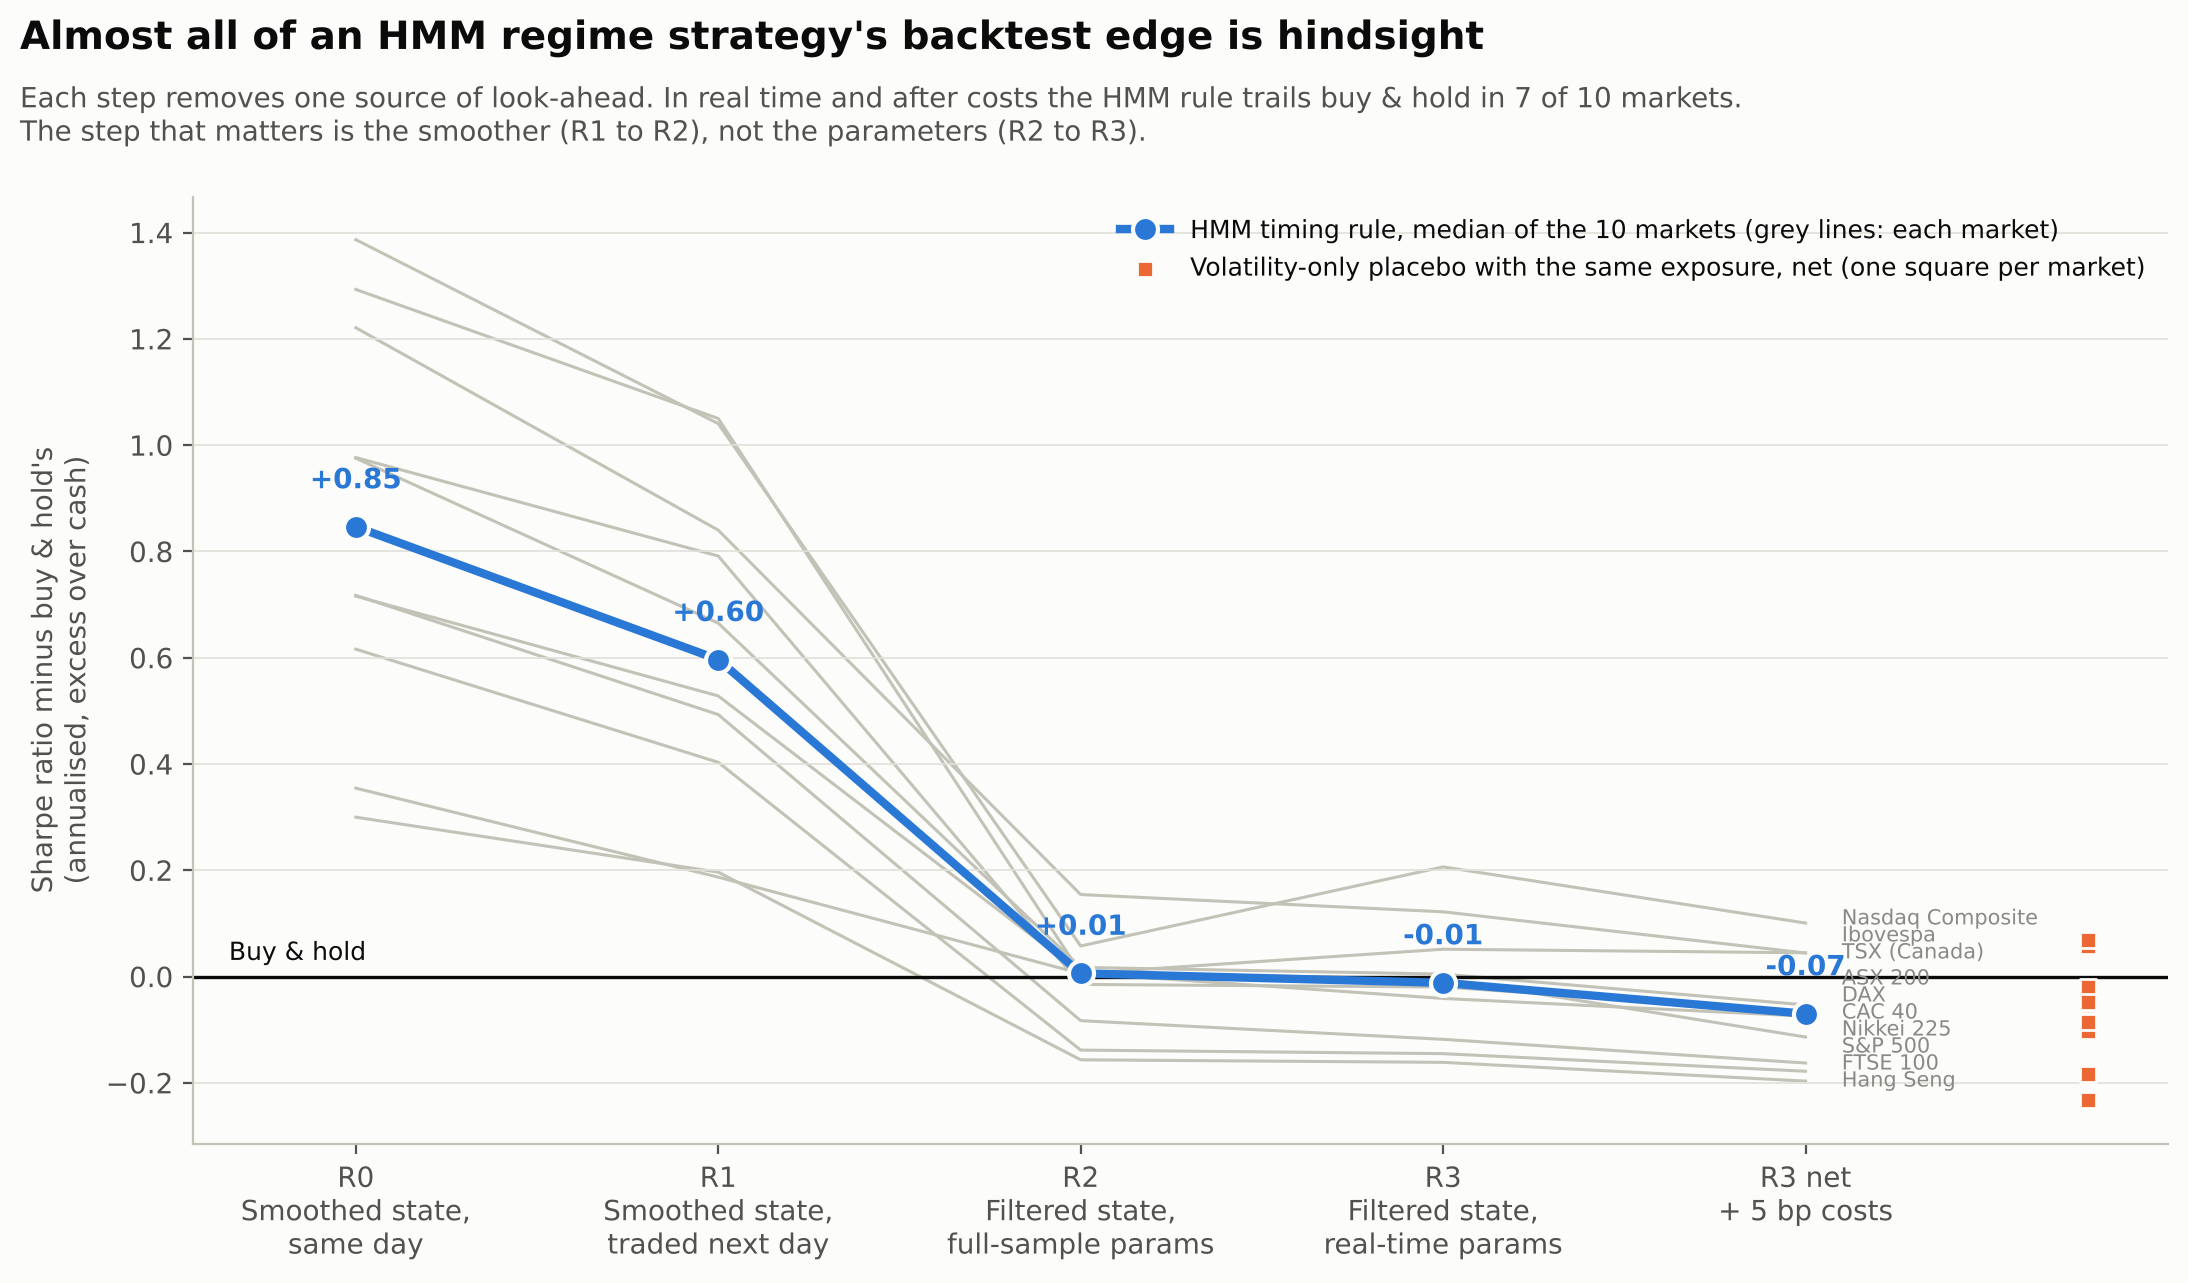
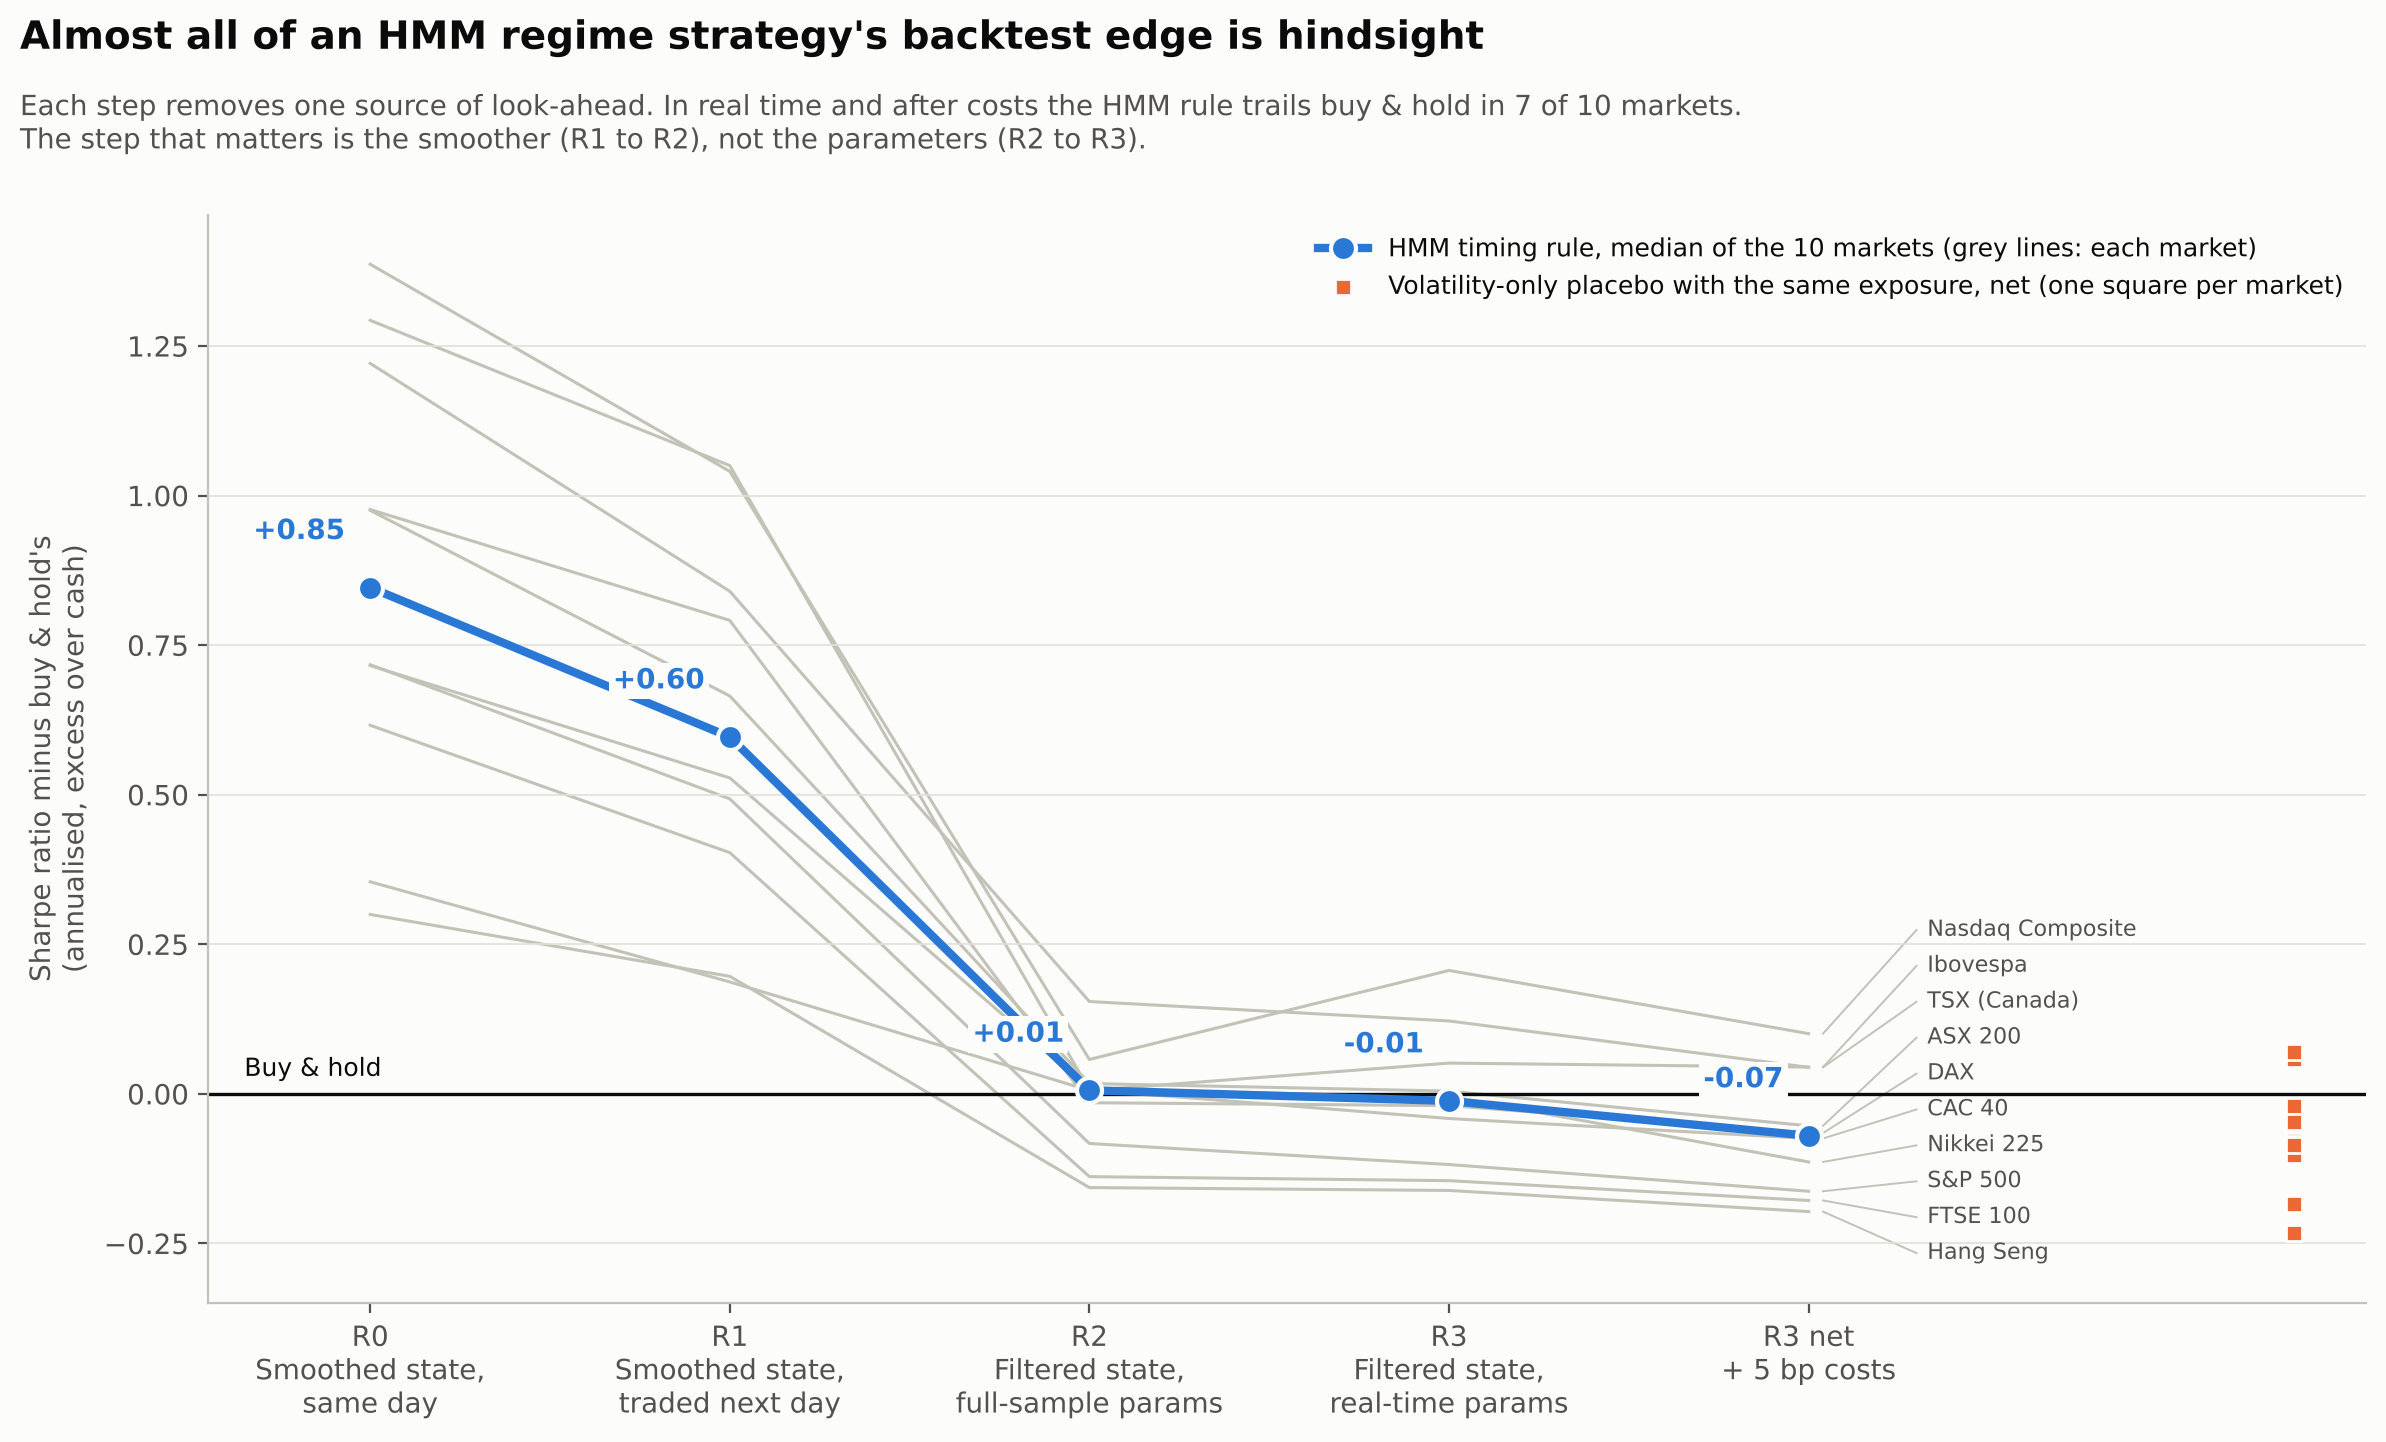
Project 19: declutter star-chart labels
Claude-Session: https://claude.ai/code/session_01CLkuMpi92Sey9wfxPQ65sX

diff --git a/19-hmm-regime-hindsight/src/figures.py b/19-hmm-regime-hindsight/src/figures.py
@@ -46,7 +46,7 @@ def heading(fig, t, sub, y=0.995):
 
 def fig1_ladder():
     perf = pd.read_csv(RES / "performance.csv").set_index(["index", "strategy", "returns"]).sharpe
-    fig, ax = plt.subplots(figsize=(11, 6.4))
+    fig, ax = plt.subplots(figsize=(12, 7.2))
     xs = np.arange(len(RUNGS))
     M = np.array([[perf[(n, s, k)] - perf[(n, "Buy & hold", "net")] for s, k, _ in RUNGS] for n in INDICES])
     pl = np.array([perf[(n, "Vol placebo", "net")] - perf[(n, "Buy & hold", "net")] for n in INDICES])
@@ -55,22 +55,26 @@ def fig1_ladder():
     # labels at the right end, nudged apart so they do not overlap
     order = np.argsort(M[:, -1])
     ys = M[order, -1].copy()
+    gap = 0.06
     for j in range(1, len(ys)):
-        ys[j] = max(ys[j], ys[j - 1] + 0.032)
+        ys[j] = max(ys[j], ys[j - 1] + gap)
+    ys -= max(0.0, (ys.mean() - M[:, -1].mean()) * 0.5)   # re-centre the column on the points
     for j, i in enumerate(order):
-        ax.text(xs[-1] + 0.1, ys[j], LABEL[INDICES[i]], fontsize=7.5, color=MUTED, va="center")
+        ax.plot([xs[-1] + 0.04, xs[-1] + 0.3], [M[i, -1], ys[j]], color=AXIS, lw=0.7, zorder=1)
+        ax.text(xs[-1] + 0.33, ys[j], LABEL[INDICES[i]], fontsize=8, color=INK2, va="center")
     med = np.median(M, axis=0)
     ax.plot(xs, med, color=BLUE, lw=3, marker="o", ms=9, mec=SURFACE, mew=1.5, zorder=3,
             label="HMM timing rule, median of the 10 markets (grey lines: each market)")
     for x, m in zip(xs, med):
-        ax.text(x, m + 0.06, f"{m:+.2f}", ha="center", va="bottom", fontsize=10, color=BLUE, fontweight="bold")
+        ax.text(x - 0.07, m + 0.07, f"{m:+.2f}", ha="right", va="bottom", fontsize=10, color=BLUE, fontweight="bold",
+                bbox=dict(fc=SURFACE, ec="none", pad=1.5), zorder=4)
     ax.scatter([xs[-1] + 0.0] * 0 , [], s=0)
     ax.axhline(0, color=INK, lw=1.2, zorder=2)
     ax.text(-0.35, 0.02, "Buy & hold", fontsize=9, color=INK, va="bottom")
-    ax.scatter(np.full(len(pl), xs[-1] + 0.78), pl, marker="s", s=36, color=ORANGE, edgecolor=SURFACE, zorder=3,
+    ax.scatter(np.full(len(pl), xs[-1] + 1.35), pl, marker="s", s=36, color=ORANGE, edgecolor=SURFACE, zorder=3,
                label="Volatility-only placebo with the same exposure, net (one square per market)")
     ax.set_xticks(xs, [r[2] for r in RUNGS])
-    ax.set_xlim(-0.45, xs[-1] + 1.0)
+    ax.set_xlim(-0.45, xs[-1] + 1.55)
     ax.set_ylabel("Sharpe ratio minus buy & hold's\n(annualised, excess over cash)")
     ax.grid(axis="x", visible=False)
     ax.legend(loc="upper right", fontsize=9)
